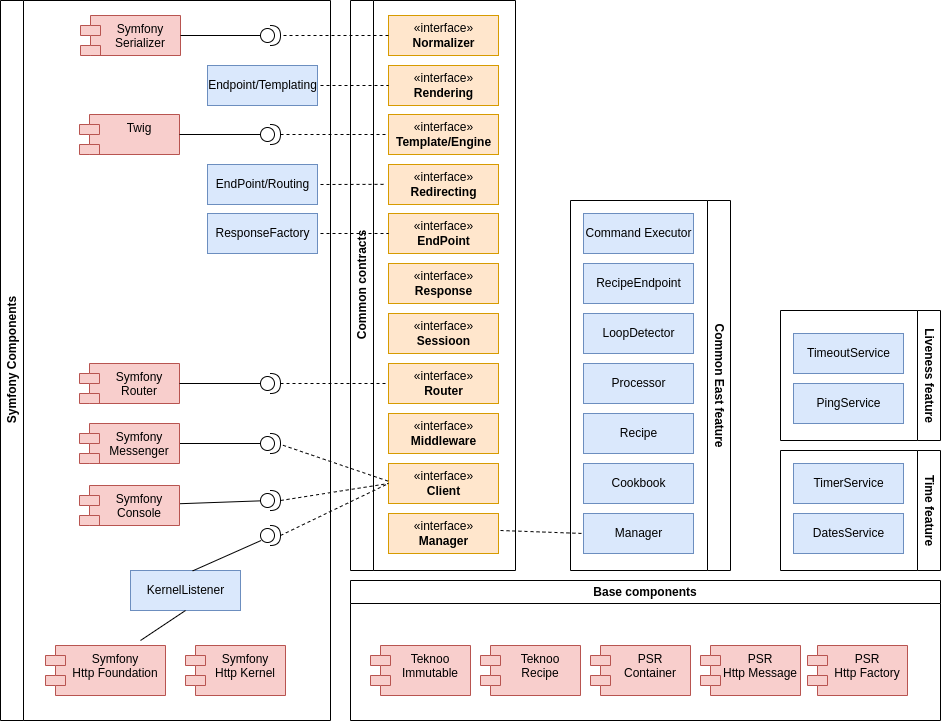
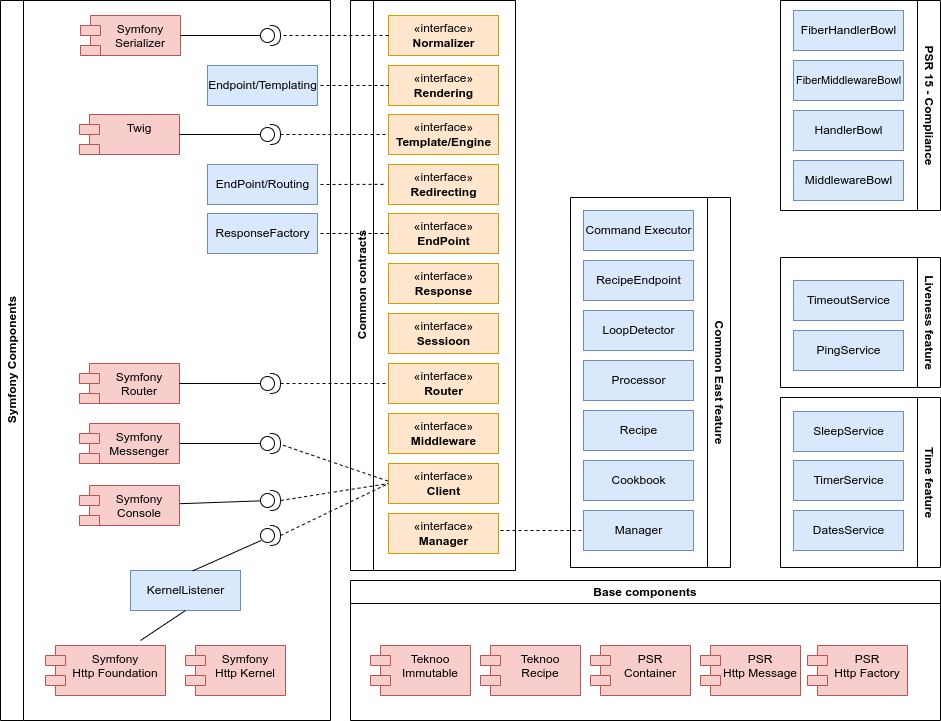
## [7.5.2] - 2024-02-04 ### Stable Release - Update documentation. - Require `Recipe` 4.6+

diff --git a/README.md b/README.md
@@ -8,10 +8,10 @@ Teknoo Software - East Foundation
 [![PHPStan](https://img.shields.io/badge/PHPStan-enabled-brightgreen.svg?style=flat)](https://github.com/phpstan/phpstan)
 
 East Foundation is a universal package to implement the [#east](http://blog.est.voyage/phpTour2015/) philosophy with 
-any framework supporting PSR-11 or with Symfony 6.4+ : All public method of objects must return `$this` or a new 
-instance of `$this`.
+any framework supporting `PSR 11`, `PSR 7` or with Symfony 6.4+ : All public method of objects must return `$this` or a 
+new instance of `$this`.
 
-This bundle uses PSR7 requests and responses and do automatically the conversion from Symfony's requests and responses.
+This bundle uses `PSR 7` requests and responses and do automatically the conversion from Symfony's requests and responses.
 So your controllers and services can be independent of Symfony. This bundle reuse internally Symfony's components
 to manage routes and find controller to call. It is also designed to be used with other framework.
 
@@ -25,7 +25,9 @@ context :
 * Middleware are actions, but must implement a specific interface.
 * The HTTP workflow is defined into a Recipe, able to be extended.
 * Chef became a manager, to execute the workflow when a request is accepted.
-* Usable with any PSR-11 Framework, Symfony implementation is also provided.
+* Usable with any `PSR 11` Framework, Symfony implementation is also provided.
+* Supports `PSR 15` handler and middleware
+* Supports `PSR 20` and provides a PSR-20 implementation
 
 A complete documentation is available in [documentation/README.md](documentation/README.md)
 
@@ -71,8 +73,8 @@ This library requires PHP 8.1 or newer and it's only compatible with Symfony 6.3
 - PHP-DI 7 or newer
 - Supports `PSR-20` with the `DatesService`.
 - Supports `PSR-15` with add to new `Recipe Bowl` type :
-  - `FiberHandlerBowl` (and `FiberMiddlewareBowl`) to support PSR 15 Requests handlers into a recipe.
-  - `MiddlewareBowl` (and `FiberMiddlewareBowl`) to support PSR 15 middleware into a recipe.
+  - `FiberHandlerBowl` (and `FiberMiddlewareBowl`) to support `PSR 15` Requests handlers into a recipe.
+  - `MiddlewareBowl` (and `FiberMiddlewareBowl`) to support `PSR 15` middleware into a recipe.
 - Add `Teknoo\East\Foundation\Normalizer\Object\GroupsTrait
 - Add a pseudo non blocking Sleep service, build on timer
 - Triggering asynchronous tasks (thanks to pcntl) for timers.
@@ -118,7 +120,7 @@ This library requires PHP 7.4 or newer and it's only compatible with Symfony 4.4
 - Prepare library to be used in non HTTP context
 - Use MessageInterface instead of ServerRequestInterface
 - Cookbook and ProcessorCookbook use BaseCookbookTrait
-- Add PSR11 Message only implementation
+- Add `PSR 11` Message only implementation
 - Add MessageFactory
 - Update Client Interface to use MessageInterface instead of RequestInterface
 - Add Recipe executor dedicated to Symfony Messenger

diff --git a/documentation/README.md b/documentation/README.md
@@ -2,17 +2,34 @@ Teknoo Software - East Foundation
 =================================
 
 East Foundation is a universal package to implement the [#east](http://blog.est.voyage/phpTour2015/) philosophy with
-any framework supporting PSR-11 or with Symfony 6.3+ : All public method of objects must return `$this` or a new
-instance of `$this`.
+any framework supporting `PSR 11`, `PSR 7` or with Symfony 6.4+ : All public method of objects must return `$this` or a
+new instance of `$this`.
 
-This bundle uses PSR7 requests and responses and do automatically the conversion from Symfony's requests and responses.
+This bundle uses `PSR 7` requests and responses and do automatically the conversion from Symfony's requests and responses.
 So your controllers and services can be independent of Symfony. This bundle reuse internally Symfony's components
 to manage routes and find controller to call. It is also designed to be used with other framework.
+
+It can be also used for workers :
+* Triggering asynchronous tasks (thanks to pcntl) for timers.
+* Setting up a worker health check.
+* Provides non blocking sleep method.
+
+This library is built on the Recipe library, and redefine only some interfaces to be more comprehensive with HTTP
+context :
+* Middleware are actions, but must implement a specific interface.
+* The HTTP workflow is defined into a Recipe, able to be extended.
+* Chef became a manager, to execute the workflow when a request is accepted.
+* Usable with any `PSR 11` Framework, Symfony implementation is also provided.
+* Supports `PSR 15` handler and middleware
+* Supports `PSR 20` and provides a PSR-20 implementation
 
 Architecture
 ------------
 East Foundation is a collection of contracts, recipes and components built on `Teknoo Recipe`, `PSR 7` and `PSR 11`.
-It is bundled with a `Symfony Integration`
+It is bundled with a `Symfony Integration`.
+It supports also :
+* `PSR 15` handler and middleware
+* `PSR 20` and provides a `PSR-20` implementation
 
 ![Architecture](architecture.png)
 
@@ -36,6 +53,19 @@ East Foundation provides also a service able to return the current date, as `\Da
 action on a timer (need the `pcntl` extension). And two liveness services, to set a catchable timeout (need also the 
 `pcntl` extension, but a non catchable fallback with `set_time_limit` is available) and a `PingService` to ensure 
 notifications to a watchdog to prevent kills.
+
+PSR 15
+------
+East Foundation supports `PSR-15` `RequestHandlerInterface` and `MiddlewareInterface` in a Recipe or a Cookbook via 
+dedicated bowls :
+- `HandlerBowl`
+- `MiddlewareBowl`
+Or, to run a request handler or a middleware in a fiber :
+- `FiberMiddlewareBowl`
+- `FiberHandlerBowl`
+
+If your framework supports `PSR-15` handler, East Foundation can be used even if no implementation is available for it,
+with the embedded `RequestHandler` : `Teknoo\East\Foundation\Http\RequestHandler\PSR15`.
 
 Cookbook
 --------

diff --git a/CHANGELOG.md b/CHANGELOG.md
@@ -1,5 +1,10 @@
 # Teknoo Software - East Foundation - Change Log
 
+## [7.5.2] - 2024-02-04
+### Stable Release
+- Update documentation.
+- Require `Recipe` 4.6+ 
+
 ## [7.5.1] - 2024-01-31
 ### Stable Release
 - `TimerService` clone the `DatesService` instance to avoid collusion when it use the real date. 
